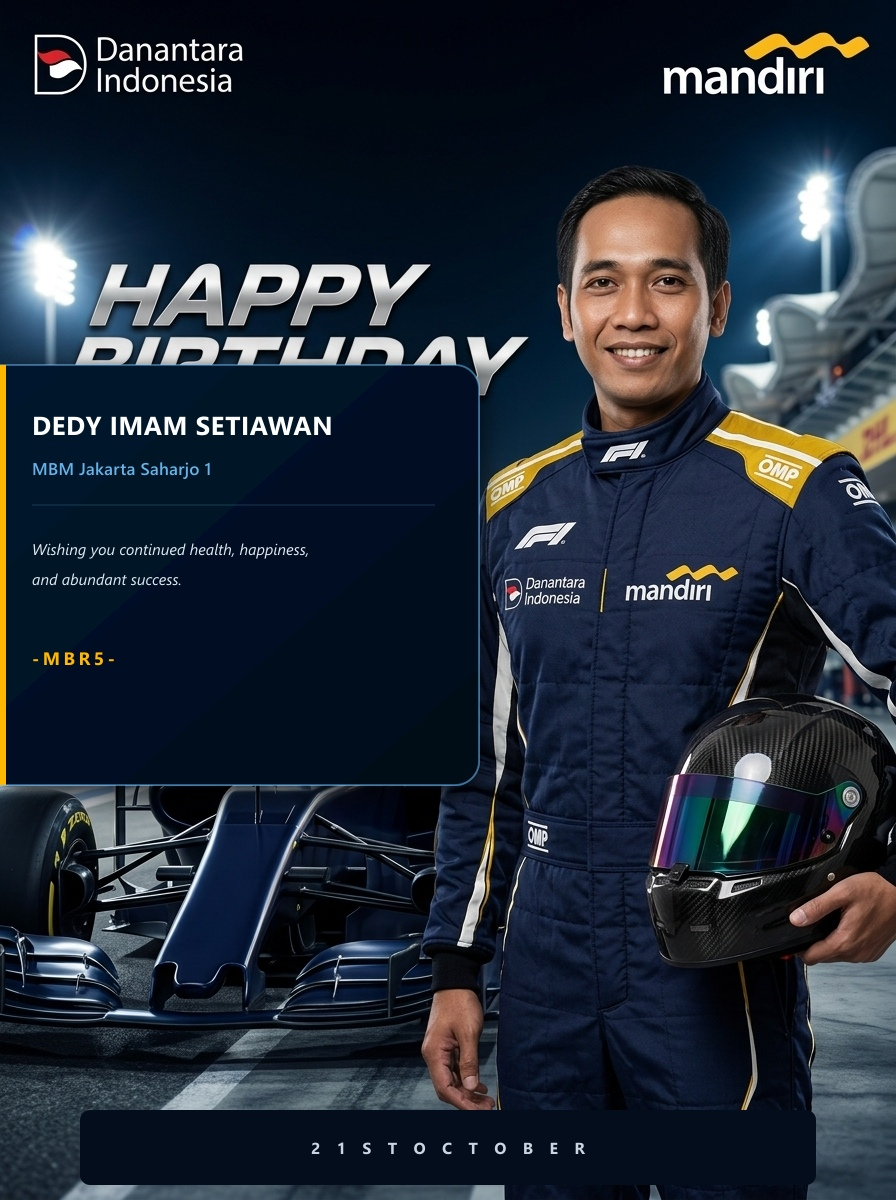
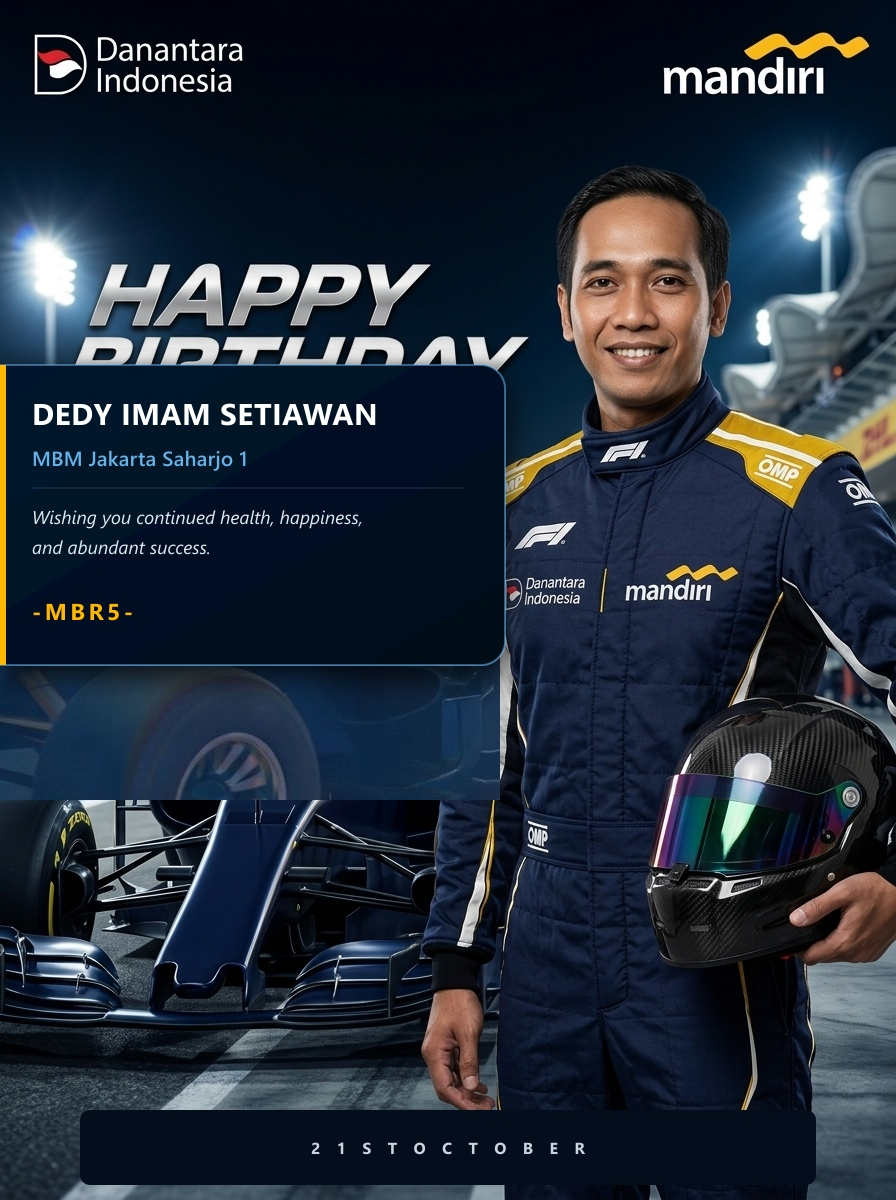
fix(cards): sesuaikan ukuran box menjadi proporsional (sedang) dan perbesar ukuran font agar lebih jelas dan terbaca

Changed region(s): [[0.0, 0.3392, 0.5938, 0.6783], [0.5312, 0.2775, 0.5625, 0.3392]]

diff --git a/public/index.html b/public/index.html
@@ -480,6 +480,6 @@
   <!-- Toast Notification Container -->
   <div class="toast-container" id="toastContainer"></div>
 
-  <script src="app.js?v=20261018_mbr5_clean_no_overlap"></script>
+  <script src="app.js?v=20261018_mbr5_medium_box"></script>
 </body>
 </html>
